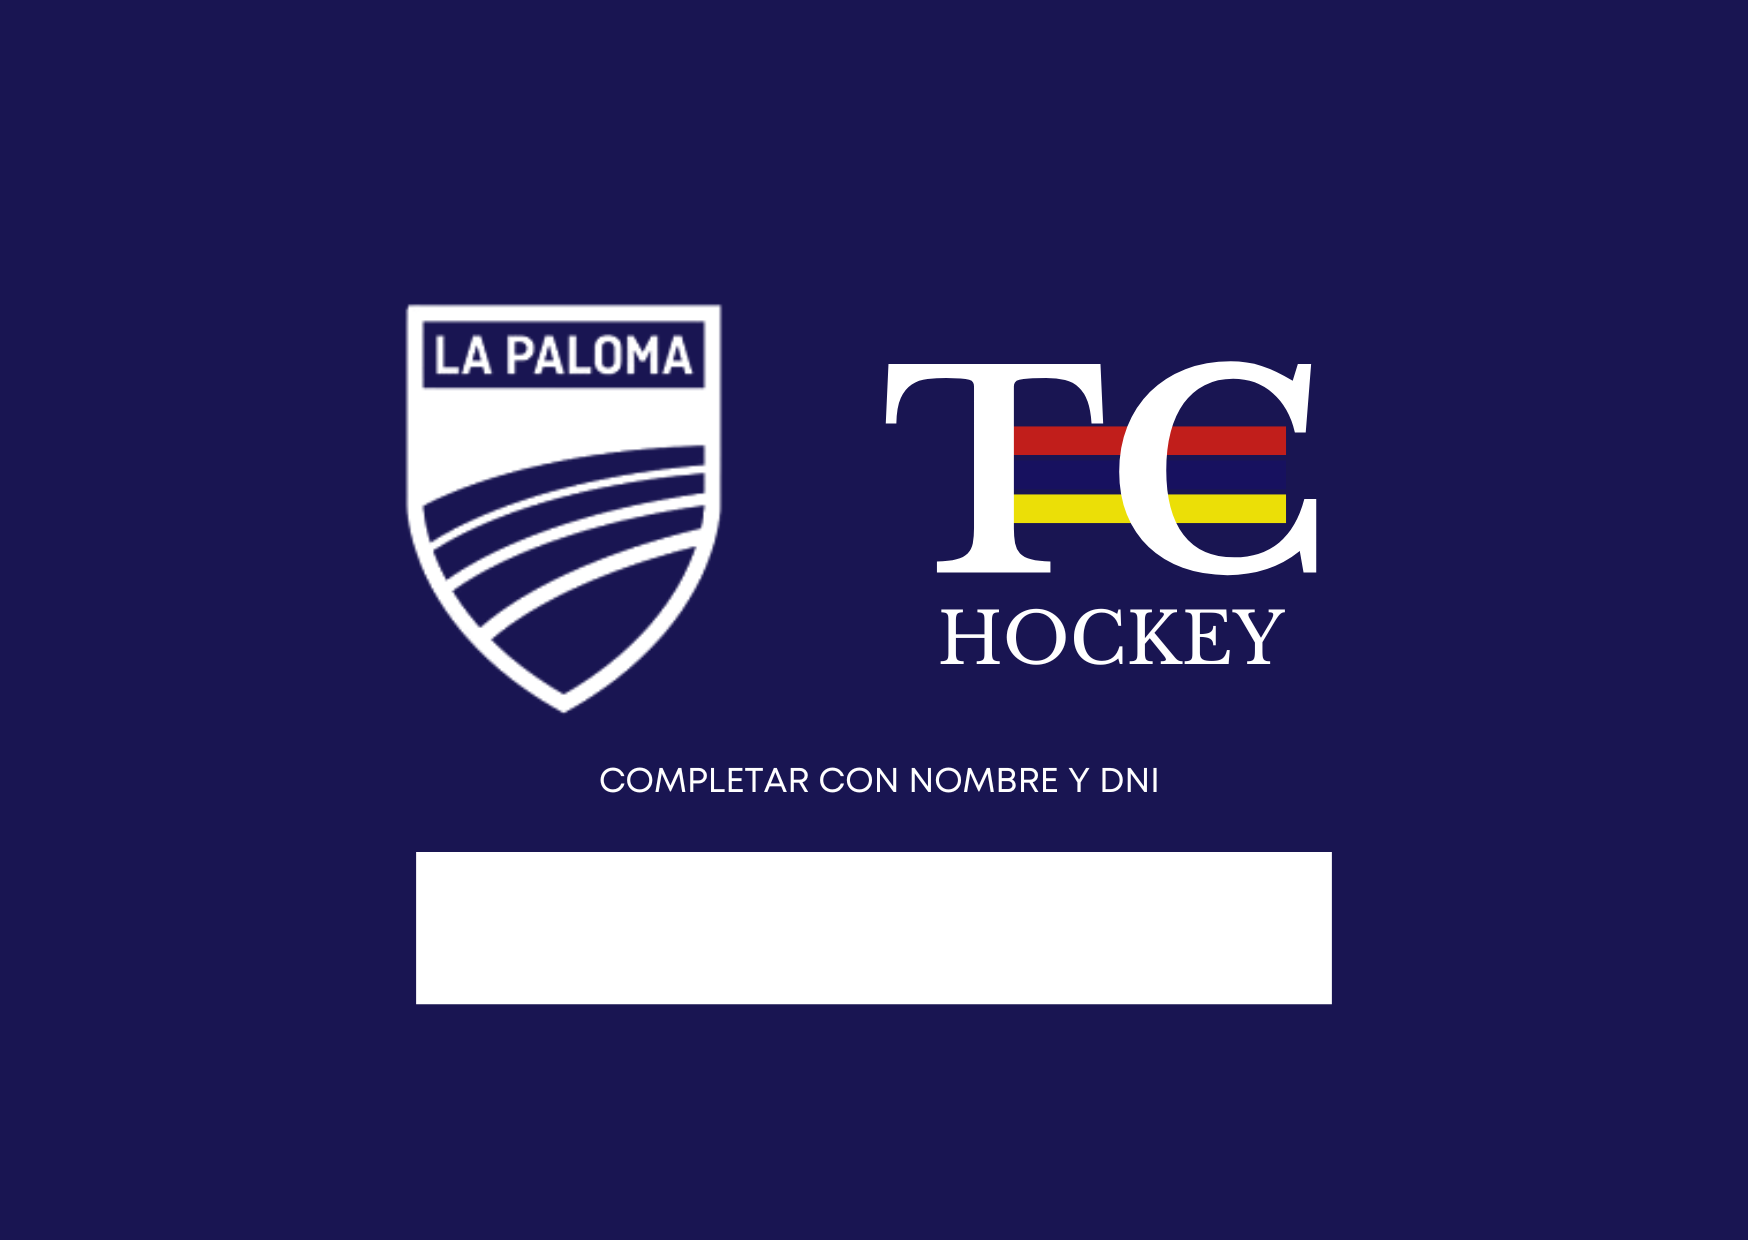
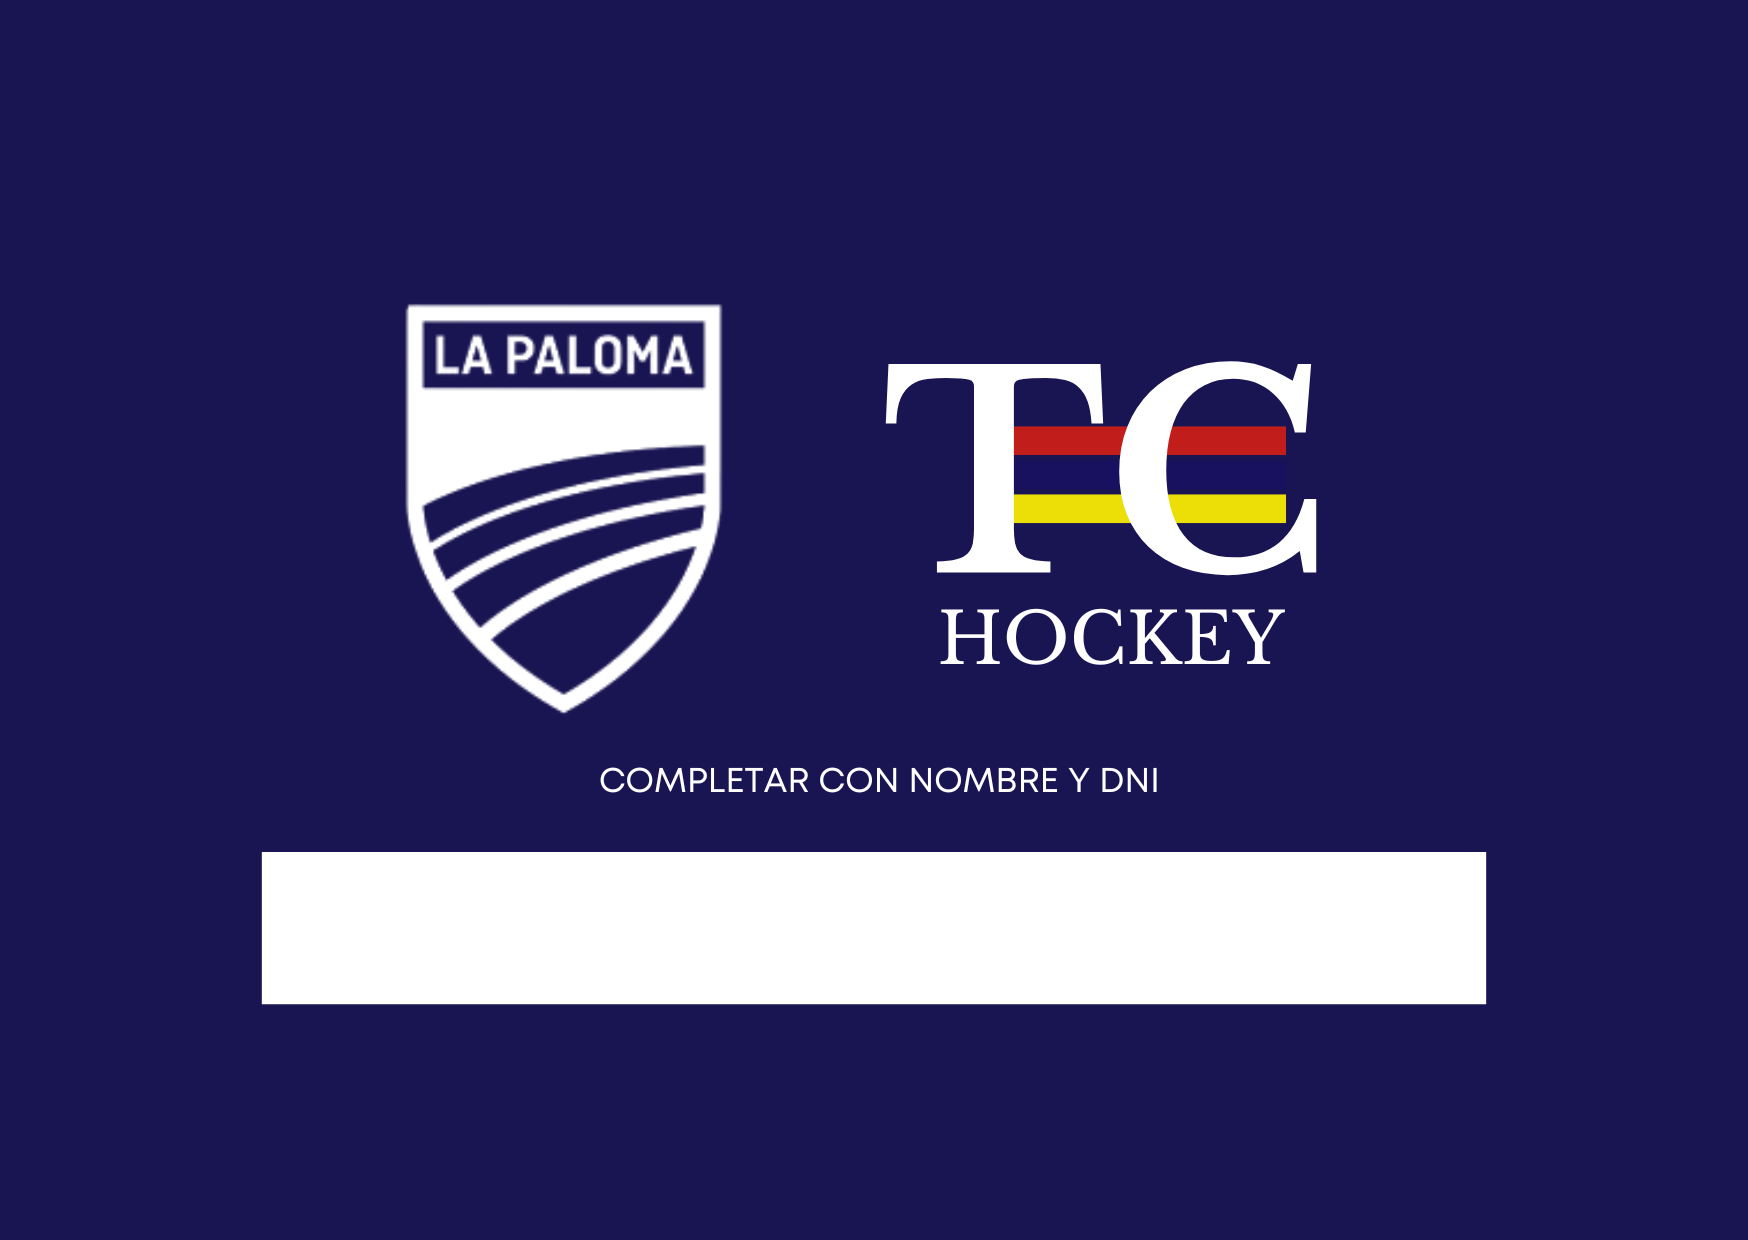
nuevo carnet para overflow

Changed region(s): [[0.7414, 0.6742, 0.865, 0.8274], [0.1236, 0.6742, 0.2471, 0.8274]]

diff --git a/styles.css b/styles.css
@@ -42,24 +42,10 @@ button {
     height: 100%;
 }
 
-#fotoCarnetContainer {
-    position: absolute;
-    top: 50px; 
-    left: 20px; 
-    width: 100px; 
-    height: 100px; 
-}
-
-#fotoCarnet {
-    width: 100%;
-    height: 100%;
-    object-fit: cover;
-}
-
 #infoContainer {
     position: absolute;
     top: 180px; 
-    left: 95px; 
+    left: 65px; 
     display: flex;
     gap: 10px; 
 }
